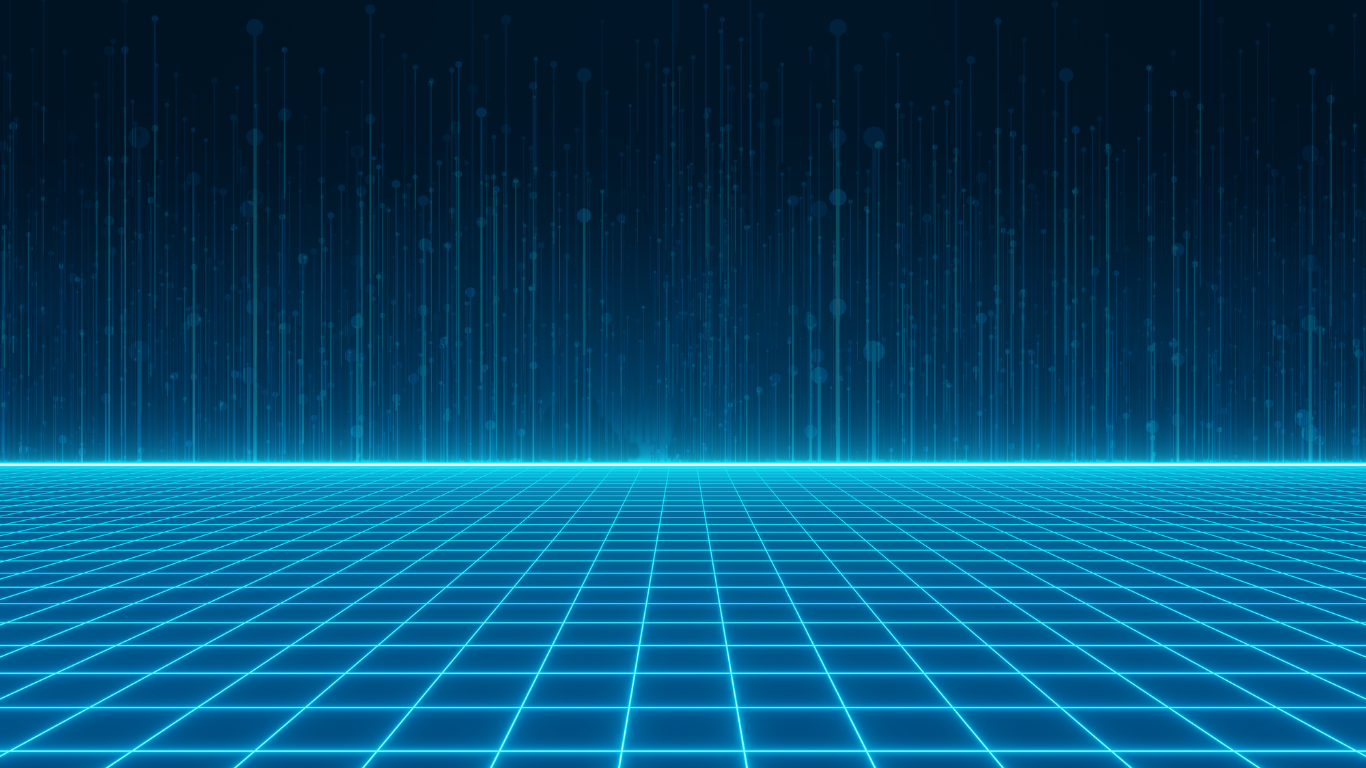
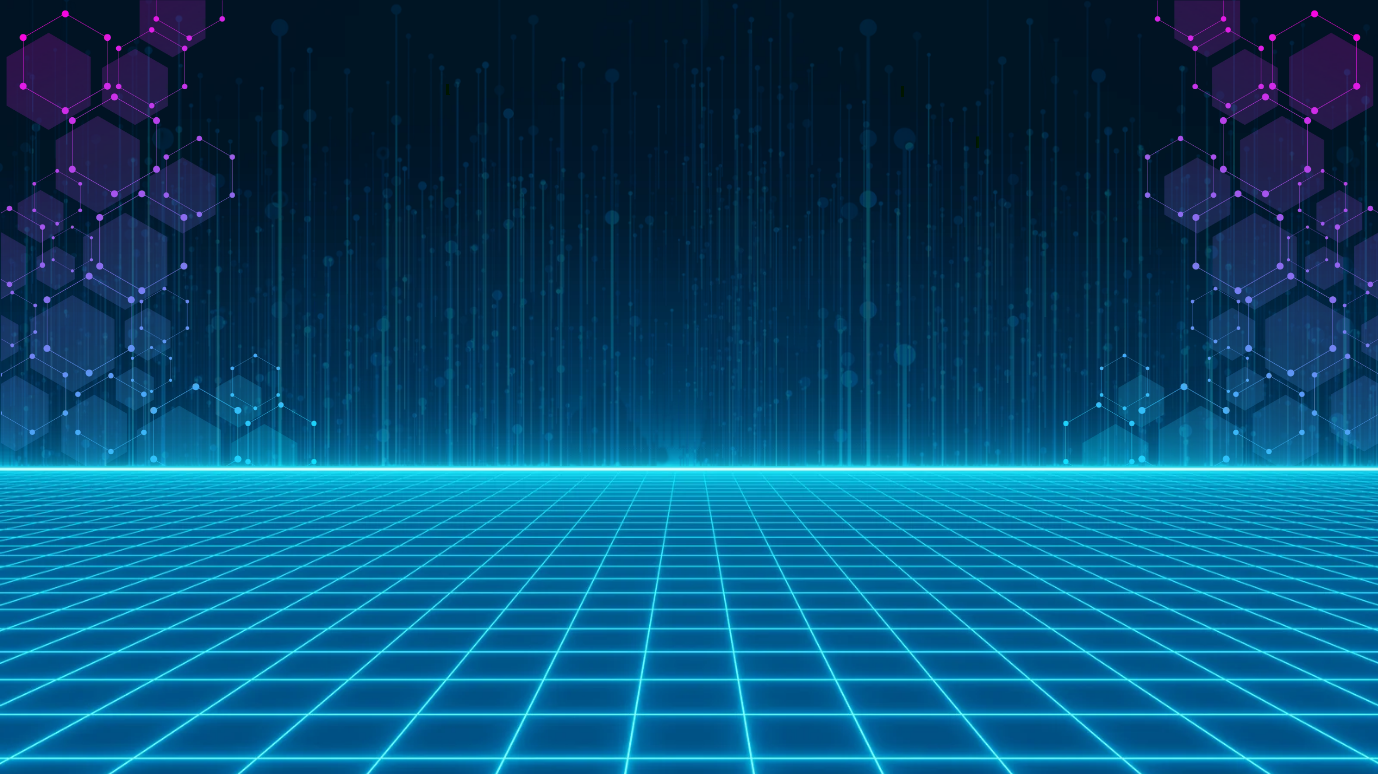
reactice design & popovers

diff --git a/index.html b/index.html
@@ -3,42 +3,85 @@
     <meta charset="utf-8">
     <link rel="stylesheet" href="stylesheet.css">
 	<link href="https://fonts.googleapis.com/css2?family=Orbitron&display=swap" rel="stylesheet">
-<head title="Try your Luck">
-</head>
-<script>
-	function checkCode() {
-    	let value = document.getElementById("codeInput").value;
+	<head title="Try your Luck">
+		<meta http-equiv="Cache-Control" content="no-cache, no-store, must-revalidate" />
+		<meta http-equiv="Pragma" content="no-cache" />
+		<meta http-equiv="Expires" content="0" />
+		<style>
+			#theGif {
+				position: fixed;
+				left: calc(50% - 500px);
+				top: 100px;
+				transition: all 0.7s ease;
+				z-index: 1000;
+				width: 350px;
+				height: 200px;
+			}
 
-		if (value === "161803") {
-			window.location.href = "161803.html";
-		} else if (value === "house")
-		{
-			window.location.href = "TheHouse.html";
+			#theGif.move-to-top-left {
+				left: 12px;
+				top: -300px;
+				transform: scale(1);
+			}
+		</style>
+	</head>
+	<script>
+		function checkCode() {
+			let value = document.getElementById("codeInput").value;
+			const gif = document.getElementById('theGif');
+
+			if (value === "161803") {
+				gif.classList.add('move-to-top-left');
+				gif.addEventListener('transitionend', function() {
+					window.location.href = "161803.html";
+				}, { once: true });
+			} else if (value === "house") {
+				gif.classList.add('move-to-top-left');
+				gif.addEventListener('transitionend', function() {
+					window.location.href = "TheHouse.html";
+				}, { once: true });
+			}
 		}
-    }
 
-</script>
-<body>
-	<table>
-		<tr style="display: flex; justify-content: center; height: 300px; justify-self: center; top: 240px; right: 100px; position: relative;">
-			<td style="padding-top: 130px; align-items:end;">
-				<img src="download.gif" width="400px"; height="200px;">
-			</td>
-			<td>
-				<div style="position: relative; display: flex; justify-content: center; top: 20px;">
-					<img src="Enter_Password_1.png"; style="justify-self: center; height: 300px;">
-					<input id="codeInput" type="text" placeholder="Versuch dein Glück..." style="
-							position: absolute;
-							top: 120px;
-							border-style: groove;
-							border-width: 10px;
-							border-color: blueviolet;
-							width: 300px;
-							height: 50px;">
-						<button onclick="checkCode()" style="position: absolute; top: 220px; background-color: rgba(9, 235, 235, 0.842);">ENTER</button>
+		document.addEventListener('DOMContentLoaded', function() {
+			const input = document.getElementById('codeInput');
+			if (input) {
+				input.addEventListener('keydown', function(e) {
+					if (e.key === 'Enter') {
+						e.preventDefault();
+						checkCode();
+					}
+				});
+			}
+		});
+
+		window.addEventListener('load', () => {
+			const navEntries = performance.getEntriesByType('navigation');
+			if (navEntries.length > 0 && navEntries[0].type === 'back_forward') {
+				location.reload();
+			}
+		});
+
+	</script>
+	<body>
+		<div style="position: relative; display: flex; justify-content: center; align-items: center;">
+			<div style="position: relative; display: flex; align-items: center;">
+				<img id="theGif" src="download.gif" style="height: 200px; max-width: 200px; margin-top: 300px; margin-left: -10px;">
+				<div style="position: relative;">
+					<img src="Enter_Password_1.png" style="height: 300px;">
+					<div style="position: absolute; display: flex; flex-direction: column; align-items: center; gap: 20px; left: 50%; top: calc(50% + 30px); transform: translate(-50%, -50%);">
+						<input id="codeInput" type="text" placeholder="Versuch dein Glück..." style="
+								border-style: groove;
+								border-width: 10px;
+								border-color: blueviolet;
+								width: 300px;
+								height: 50px;
+								font-size: 25px;
+								">
+						<button onclick="checkCode()" style="background-color: rgba(9, 235, 235, 0.842);">ENTER</button>
+					</div>
 				</div>
-			</td>
-		</tr>
-	</table>
-</body>
+			</div>
+		</div>
+	</body>
 </html>

diff --git a/TheHouse.html b/TheHouse.html
@@ -6,10 +6,11 @@
 <head>
 </head>
 <body>
+	<img id="theGif" src="download.gif" style="height: 200px; max-width: 200px; padding-right: 10px; position: fixed; top: 0; left: 0; z-index: 1000;">
 	<div style="position: relative; display: flex; justify-content: center; ">
 		<img src="OrdnerLila.png" style="position: absolute; top: -40px; left: 400px; height: 375px; width: 650px;">
 		<label style="position: absolute; top: 125px; font-size:xx-large;"> House</label>
-		<img src="6.png"; style="display: flex;justify-self: center;">
+		<img src="6.png"; style="display: flex; justify-self: center; width: 1700px; height: 900px;">
 			<div style="position: absolute; 
 			display: grid; 
 			grid-template-columns: repeat(5, 200px); 
@@ -20,6 +21,13 @@
 			
 			
 			">
+			<div popover="" id="my-popover" class="box flow">
+  				<h2>Passwort:</h2>
+				<input type="text" placeholder="Enter password...">
+				<button>ENTER</button>
+   				<button popovertarget="my-popover" popovertargetaction="hide">HIDE</button>
+			</div>
+
 			<div class="center-container">
 				<div class="centerbilder"><img src="Zettel.png";><label>Garten</label></div>
 				<div class="centerbilder"><img src="Zettel.png";><label>Pflanzen</label></div>
@@ -45,4 +53,11 @@
 			</div>
     </div>
 </body>
+<script>
+document.querySelectorAll('.centerbilder').forEach(el => {
+  el.addEventListener('click', () => {
+    document.getElementById('my-popover').showPopover();
+  });
+});
+</script>
 </html>

diff --git a/161803.html b/161803.html
@@ -6,10 +6,11 @@
 <head>
 </head>
 <body>
+	<img id="theGif" src="download.gif" style="height: 200px; max-width: 200px; padding-right: 10px; position: fixed; top: 0; left: 0; z-index: 1000;">
 	<div style="position: relative; display: flex; justify-content: center;">
 		<img src="OrdnerBraun.png" style="position: absolute; top: 115px; left: 700px; height: 50px; width: 60px;">
 		<label style="position: absolute; top: 125px; font-size:xx-large;"> House</label>
-		<img src="6.png"; style="display: flex; justify-self: center;">
+		<img src="6.png"; style="display: flex; justify-self: center; width: 1700px; height: 900px;">
 			<div style="position: absolute; 
 			display: grid; 
 			grid-template-columns: repeat(5, 200px); 

diff --git a/stylesheet.css b/stylesheet.css
@@ -38,8 +38,11 @@ button{
     grid-template-columns: repeat(5, 200px);
     gap: 60px 10px;
 
-    height: 400px;        
-    overflow-y: auto;     
+    height: 400px;
+    overflow-y: auto;
     overflow-x: hidden;
     padding: 10px;
+}
+#my-popover::backdrop {
+    background-color: rgba(0, 0, 0, 0.7);
 }
